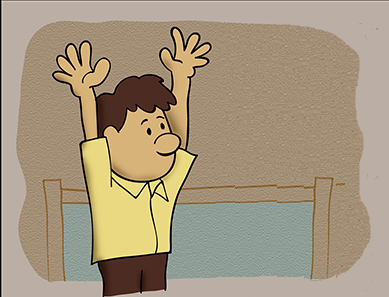
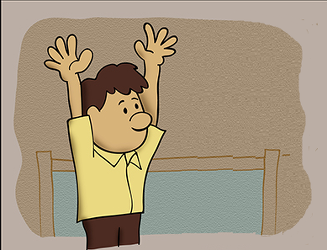
Changed background images and resized all images on slides to fit better

diff --git a/COMP397_AssignmentOneGotSWAG/index.html b/COMP397_AssignmentOneGotSWAG/index.html
@@ -42,13 +42,13 @@
         <!-- THIRD SLIDE -->
         <div id="3" class="step slide" data-x="-1500">  <!--This slide is good -->
             <div class="slide-text">
-                <p>You choose to yolo mode this question</p>
+                <p>You choose to yolo mode this question<br><br>
                 <img style="margin:0px auto;display:block" src="/assets/images/yolo.jpg" >
-                <p>The question is:
+                The question is:
                     There is a 4 tailed dragon, the fource of gravity is 9.8g. Tom has dragon + 3.4 cats. 
                     One of the cat is 35lbs, the other one is green woth a fork neckless.
-                    What is the answer to the universe?</p>
-                <p>The answer of the universe is...</p>
+                    What is the answer to the universe?<br><br>The answer of the universe is...</p>
+
                 <p><a href="#6">Illuminati</a> lol</p>
                 <p><a href="#7">42</a></p>
 
@@ -63,7 +63,6 @@
                 <p>You choose to raise both hands up</p>
                 <img style="margin:0px auto;display:block" src="/assets/images/twohandsUp.png" >
                 <p>The teacher walks over to your desk...and asks, "what do you want?"</p>
-                <p>...</p>
                 <p>You...</p>
                 <p><a href="#10">Ask</a>  him to explain the question</p>                                <!--OUTCOME 1 LOSE -->                   
                 <p><a href="#20">SLAM</a>both hands on the desk and walk out the room like a BOSS</p>    <!--OUTCOME 2 WIN -->      
@@ -134,7 +133,8 @@
                 <!-- <p>OUTCOME 1</p> -->
                 <p>You asked him to explain the question</p>
                 <p>The teacher starts to explain the question, but you just remebered how much you hate his voice and anything he says goes into one ears and come out the other one right way. </p>   
-                 <img style="margin:0px auto;display:block" src="/assets/images/inOneOutOtherOne.png" >
+                 <img style="margin:0px auto;display:block" src="/assets/images/inOneOutOtherOne.png">
+                <img style="margin:0px auto;display:block" src="/assets/images/f.jpg" >
                 <p>LOSER</p>
                 <div class="menu"><a href="#1">START OVER</a></div>
             </div> <!-- END OF SLIDE TEXT -->
@@ -154,11 +154,12 @@
 
 
         <!--OUTCOME 3 LOSE OUTCOME-->
-        <div id="30" class="step slide" data-x="4500">
+        <div id="30" class="step slide" data-x="5000">
             <div class="slide-text">
                <!-- <p>OUTCOME 3</p> -->
                 <p>You ask him for the answer. HE gets angry because you asked a stupid question. The teacher takes your paper and gives you a mark of zero for asking a supid question.</p>   
-                 <img style="margin:0px auto;display:block" src="/assets/images/takeTestPaper.png" >   
+                 <img style="margin:0px auto;display:block" src="/assets/images/takeTestPaper.png" >
+                <img style="margin:0px auto;display:block" src="/assets/images/f.jpg" >   
                 <p>LOSER</p>
                 <div class="menu"><a href="#1">START OVER</a></div>
             </div> <!-- END OF SLIDE TEXT -->
@@ -166,12 +167,13 @@
 
 
         <!--OUTCOME 4 LOSE OUTCOME-->
-        <div id="40" class="step slide" data-x="-4500">
+        <div id="40" class="step slide" data-x="-5000">
             <div class="slide-text">
                 <!-- <p>OUTCOME 4</p> -->
                 <p>You told him that test is damn 2 hard...He laugh at you and says "maybe you should go back to kindergarten school"</p> 
                 <p>You got super angry and attacked him.</p>
-                <img style="margin:0px auto;display:block" src="/assets/images/bullyAndTeacher.jpg" >   
+                <img style="margin:0px auto;display:block" src="/assets/images/bullyAndTeacher.jpg" >
+                <img style="margin:0px auto;display:block" src="/assets/images/f.jpg" >   
                 <p>The teacher failed you<p>
 
                 <p>LOSER</p>
@@ -181,11 +183,12 @@
 
 
         <!--OUTCOME 5 LOSE OUTCOME-->
-        <div id="50" class="step slide" data-x="5000">
+        <div id="50" class="step slide" data-x="6000">
             <div class="slide-text">
                 <!--<p>OUTCOME 5</p>-->
                 <p>NO such things as illuminati in the universy. Grow up kid, this is not a magical land that you see in movies.</p>   
                  <img style="margin:0px auto;display:block" src="/assets/images/sadKid.jpg" >   
+                <img style="margin:0px auto;display:block" src="/assets/images/f.jpg" >
                 <p>LOSER</p>
                 <div class="menu"><a href="#1">START OVER</a></div>
             </div> <!-- END OF SLIDE TEXT -->
@@ -193,12 +196,12 @@
 
 
         <!--OUTCOME 6 LOSE OUTCOME-->
-        <div id="60" class="step slide" data-x="-5000">
+        <div id="60" class="step slide" data-x="-6000">
             <div class="slide-text">
                 <!--<p>OUTCOME 6</p>-->
                  <img style="margin:0px auto;display:block" src="/assets/images/sleep.jpg" > 
                 <p>It wasn't a quick nap, you went to sleep for 3.8 lighyears. You test paper is on your desk with a big fat red "F" grade</p> 
-                  
+                  <img style="margin:0px auto;display:block" src="/assets/images/f.jpg" >
                 <p>LOSER</p>
                 <div class="menu"><a href="#1">START OVER</a></div>
             </div> <!-- END OF SLIDE TEXT -->
@@ -206,11 +209,12 @@
 
 
         <!--OUTCOME 7 LOSE OUTCOME-->
-        <div id="70" class="step slide" data-x="5500">
+        <div id="70" class="step slide" data-x="7000">
             <div class="slide-text">
                 <!-- <p>OUTCOME 7</p>  -->
                 <p>You passed out after seeing your blood. NOOB</p>
                 <img style="margin:0px auto;display:block" src="/assets/images/passout.jpg" > 
+                <img style="margin:0px auto;display:block" src="/assets/images/f.jpg" >
                 <p>LOSER</p>
                 <div class="menu"><a href="#1">PLAY AGAIN</a></div>
             </div> <!-- END OF SLIDE TEXT -->
@@ -218,11 +222,12 @@
 
 
         <!--OUTCOME 8 LOSE OUTCOME-->
-        <div id="80" class="step slide" data-x="-5500">
+        <div id="80" class="step slide" data-x="-70000">
             <div class="slide-text">
                 <!-- <p>OUTCOME 8</p> -->
                 <p>While trying to steal your friend's pencil, the teacher failed you because he though you where cheating</p>   
                 <img style="margin:0px auto;display:block" src="/assets/images/stealPencil.jpg" > 
+                <img style="margin:0px auto;display:block" src="/assets/images/f.jpg" >
                 <p>LOSER</p>
                 <div class="menu"><a href="#1">PLAY AGAIN</a></div>
             </div> <!-- END OF SLIDE TEXT -->

diff --git a/COMP397_AssignmentOneGotSWAG/css/main.css b/COMP397_AssignmentOneGotSWAG/css/main.css
@@ -1,12 +1,6 @@
 body {
-    background: rgb(206,219,233); /* Old browsers */
-    background: -moz-linear-gradient(top,  rgba(206,219,233,1) 0%, rgba(170,197,222,1) 17%, rgba(58,132,195,1) 37%, rgba(58,132,195,1) 37%, rgba(97,153,199,1) 50%, rgba(65,154,214,1) 59%, rgba(75,184,240,1) 71%, rgba(58,139,194,1) 84%, rgba(38,85,139,1) 100%); /* FF3.6+ */
-    background: -webkit-gradient(linear, left top, left bottom, color-stop(0%,rgba(206,219,233,1)), color-stop(17%,rgba(170,197,222,1)), color-stop(37%,rgba(58,132,195,1)), color-stop(37%,rgba(58,132,195,1)), color-stop(50%,rgba(97,153,199,1)), color-stop(59%,rgba(65,154,214,1)), color-stop(71%,rgba(75,184,240,1)), color-stop(84%,rgba(58,139,194,1)), color-stop(100%,rgba(38,85,139,1))); /* Chrome,Safari4+ */
-    background: -webkit-linear-gradient(top,  rgba(206,219,233,1) 0%,rgba(170,197,222,1) 17%,rgba(58,132,195,1) 37%,rgba(58,132,195,1) 37%,rgba(97,153,199,1) 50%,rgba(65,154,214,1) 59%,rgba(75,184,240,1) 71%,rgba(58,139,194,1) 84%,rgba(38,85,139,1) 100%); /* Chrome10+,Safari5.1+ */
-    background: -o-linear-gradient(top,  rgba(206,219,233,1) 0%,rgba(170,197,222,1) 17%,rgba(58,132,195,1) 37%,rgba(58,132,195,1) 37%,rgba(97,153,199,1) 50%,rgba(65,154,214,1) 59%,rgba(75,184,240,1) 71%,rgba(58,139,194,1) 84%,rgba(38,85,139,1) 100%); /* Opera 11.10+ */
-    background: -ms-linear-gradient(top,  rgba(206,219,233,1) 0%,rgba(170,197,222,1) 17%,rgba(58,132,195,1) 37%,rgba(58,132,195,1) 37%,rgba(97,153,199,1) 50%,rgba(65,154,214,1) 59%,rgba(75,184,240,1) 71%,rgba(58,139,194,1) 84%,rgba(38,85,139,1) 100%); /* IE10+ */
-    background: linear-gradient(to bottom,  rgba(206,219,233,1) 0%,rgba(170,197,222,1) 17%,rgba(58,132,195,1) 37%,rgba(58,132,195,1) 37%,rgba(97,153,199,1) 50%,rgba(65,154,214,1) 59%,rgba(75,184,240,1) 71%,rgba(58,139,194,1) 84%,rgba(38,85,139,1) 100%); /* W3C */
-    filter: progid:DXImageTransform.Microsoft.gradient( startColorstr='#cedbe9', endColorstr='#26558b',GradientType=0 ); /* IE6-9 */
+    background-image: url("/assets/images/background.jpg");
+    opacity: 0.95;
 }
 
 .impress-enabled .step {
@@ -28,11 +22,11 @@
     width: 700px;
     height: 600px;
     padding: 40px 60px;
-    background-color: white;
+    background-image: url("/assets/images/impressBackground.png");
     border: 1px solid rgba(0,0,0,0.3);
     color: rgb(52, 52, 52);
     text-shadow: 0 2px 2px rgba(0,0,0,0.1);
-    border-radius: 5px;
+    border-radius: 20px;
     font-family: "Open Sans", Arial, sans-serif;
     font-size: 20px;
 }
